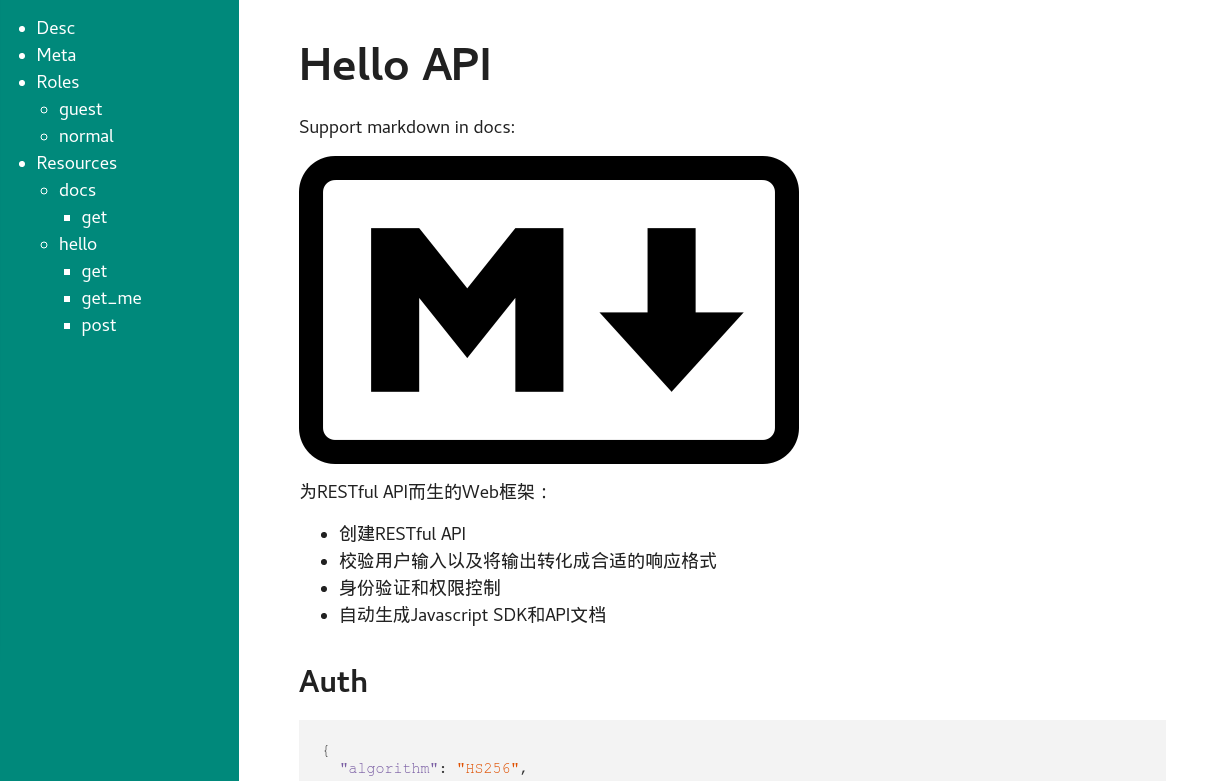
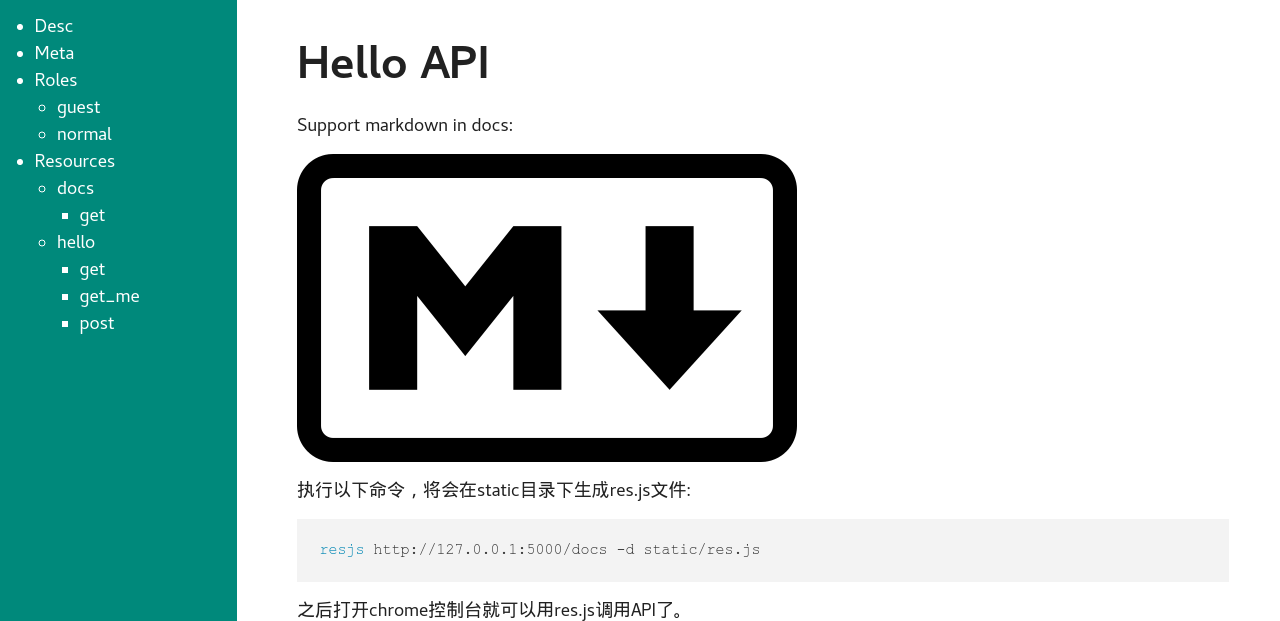
update examples

diff --git a/examples/hello/hello.py b/examples/hello/hello.py
@@ -5,12 +5,11 @@ Support markdown in docs:
 
 ![markdown](https://upload.wikimedia.org/wikipedia/commons/thumb/4/48/Markdown-mark.svg/500px-Markdown-mark.svg.png)
 
-为RESTful API而生的Web框架：
-
-- 创建RESTful API
-- 校验用户输入以及将输出转化成合适的响应格式
-- 身份验证和权限控制
-- 自动生成Javascript SDK和API文档
+执行以下命令，将会在static目录下生成res.js文件:
+```
+resjs http://127.0.0.1:5000/docs -d static/res.js
+```
+之后打开chrome控制台就可以用res.js调用API了。
 """
 from flask import Flask, g
 from flask_restaction import Api
